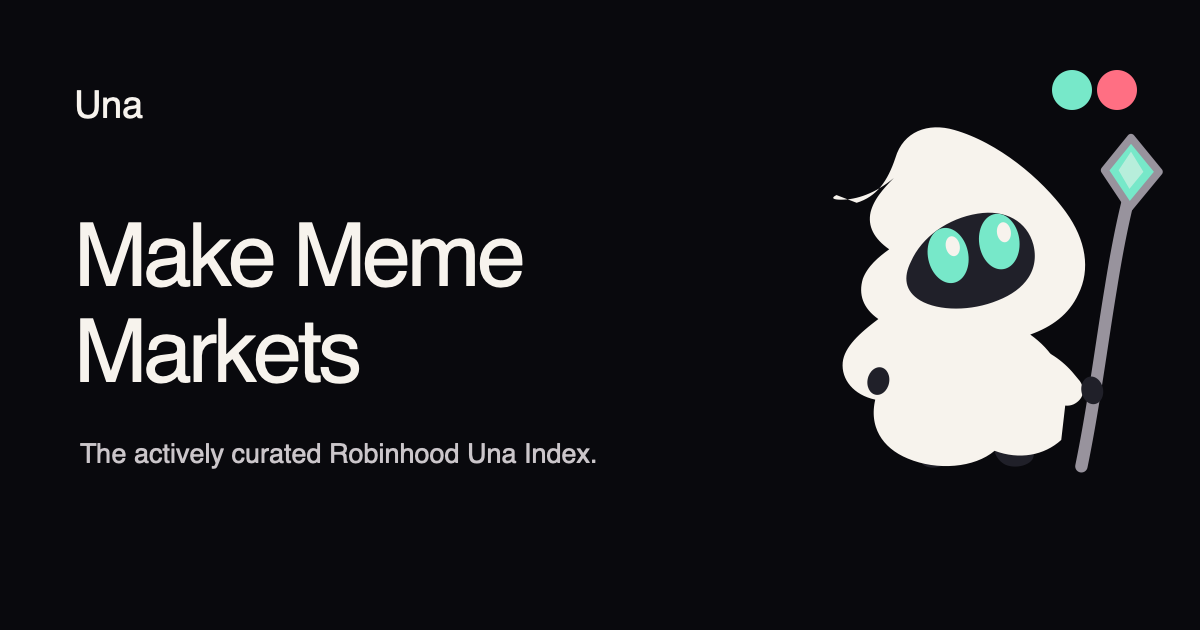
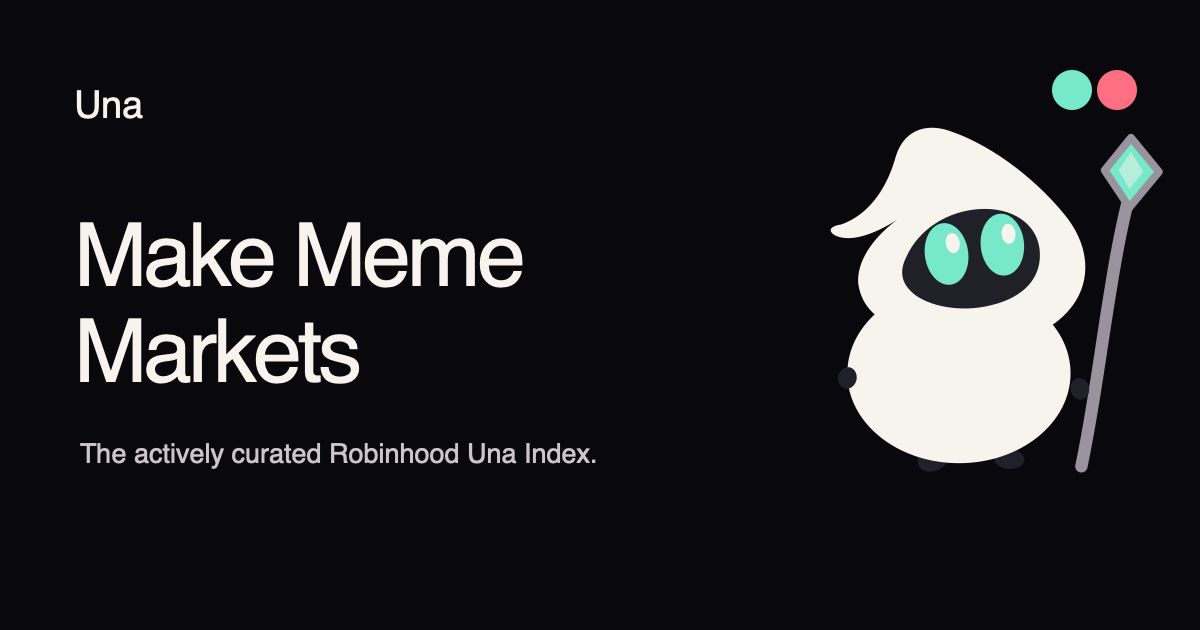
feat: simplify Una into a light blob

diff --git a/test/app-ui.test.ts b/test/app-ui.test.ts
@@ -63,16 +63,18 @@ describe("meme index product UI", () => {
   });
 
   it("keeps Una eye-first at icon scale", () => {
-    expect(mascot).toContain('rx="13" ry="18"');
+    expect(mascot).toContain('rx="14" ry="20"');
     expect(mascot).toContain('rx="4.5" ry="6.5"');
     expect(mascot).not.toContain('rx="9" ry="13"');
   });
 
-  it("keeps Una round and tiny-limbed with an oversized playful staff", () => {
+  it("keeps Una a simple light blob with a pronounced hood, tiny limbs, and an oversized staff", () => {
     expect(mascot).toContain("tiny hands and feet");
-    expect(mascot).toContain("M89 207c-5 5-8 14-3 18");
+    expect(mascot).toContain('rx="72" ry="58"');
+    expect(mascot).toContain("M33 70c17-6 29-22 35-43");
+    expect(mascot).toContain("M86 215c-4 4-5 10-1 13");
     expect(mascot).toContain("m220 14 18 22-19 23-16-24 17-21Z");
-    expect(mascot).not.toContain("M76 203c-11 8-20 22");
+    expect(mascot).not.toContain("M43 56c13-4 20-14 25-29");
   });
 
   it("keeps the launch surface Robinhood-specific while preserving self-custody", () => {
